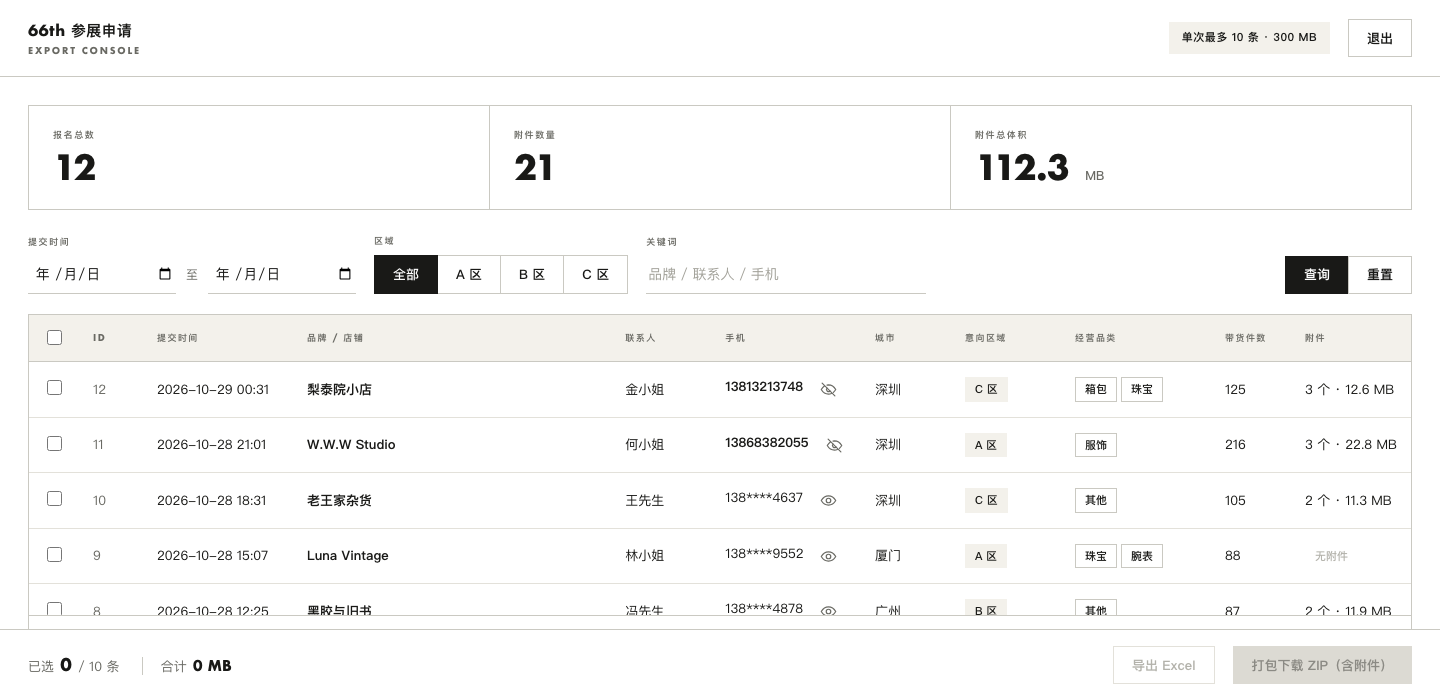
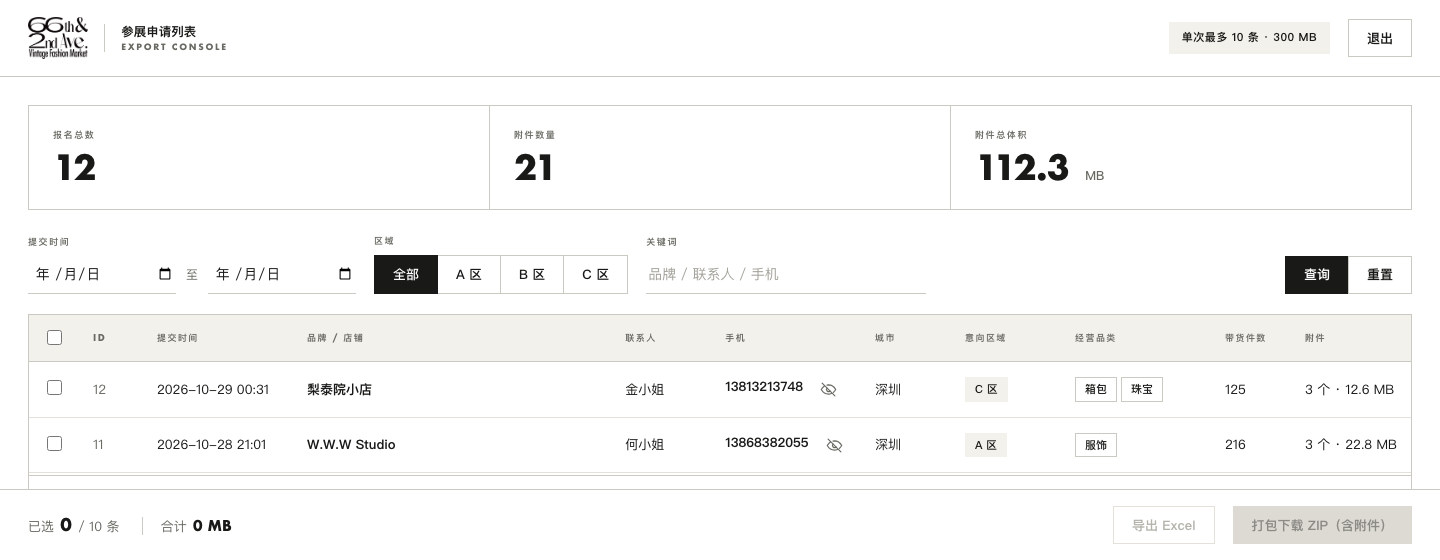
feat(security): 手机号改为传输层脱敏
- 列表接口 /api/v1/applications 只返回 138****8000，响应体里没有完整号码
- 新增 GET /api/v1/applications/{id}/phone 返回完整号，需 token
- 每次查看写审计日志：application_id / ip / ua，落到容器 stdout
- 前端点眼睛才调该接口，结果仅在本次会话内存缓存
- Excel / ZIP 导出仍是完整号码（业务外呼需要）
- 测试补 4 条：列表脱敏、单查、鉴权、导出完整

diff --git a/static/index.html b/static/index.html
@@ -343,6 +343,8 @@
   const state = {
     token: sessionStorage.getItem('export_token') || '',
     items: [], selected: new Map(),
+    phones: new Map(),      // id -> 完整号码（本次会话缓存）
+    shownPhones: new Set(), // 当前展开的行
     page: 1, pages: 1, total: 0,
     limit: 10, maxMb: 300,
     zone: '', keyword: '', from: '', to: '',
@@ -432,6 +434,8 @@
     state.token = '';
     sessionStorage.removeItem('export_token');
     state.selected.clear();
+    state.phones.clear();
+    state.shownPhones.clear();
     $('appView').classList.add('hidden');
     $('loginView').classList.remove('hidden');
   }
@@ -491,9 +495,9 @@
           <td class="mono">${fmtTime(it.created_at)}</td>
           <td><strong>${esc(it.brand_name)}</strong></td>
           <td>${esc(it.contact_name || '—')}</td>
-          <td class="mono phone-cell" data-phone="${esc(it.phone || '')}">
+          <td class="mono phone-cell" data-id="${it.id}">
             <span class="phone-text">${esc(maskPhone(it.phone))}</span>
-            ${it.phone ? `<button type="button" class="eye" title="显示号码" aria-label="显示号码">${EYE.off}</button>` : ''}
+            ${it.phone ? `<button type="button" class="eye" title="查看完整号码" aria-label="查看完整号码">${EYE.off}</button>` : ''}
           </td>
           <td>${esc(it.city || '—')}</td>
           <td>${zones || '—'}</td>
@@ -506,20 +510,57 @@
         cb.addEventListener('change', () => toggle(Number(cb.dataset.id), cb.checked));
       });
       tb.querySelectorAll('.eye').forEach((btn) => {
-        btn.addEventListener('click', () => {
+        btn.addEventListener('click', async () => {
           const cell = btn.closest('.phone-cell');
+          const id = Number(cell.dataset.id);
           const text = cell.querySelector('.phone-text');
-          const full = cell.dataset.phone;
-          const shown = btn.dataset.shown === '1';
-          text.textContent = shown ? maskPhone(full) : full;
-          btn.dataset.shown = shown ? '0' : '1';
-          btn.innerHTML = shown ? EYE.off : EYE.on;
-          btn.title = shown ? '显示号码' : '隐藏号码';
-          btn.setAttribute('aria-label', btn.title);
-          cell.classList.toggle('revealed', !shown);
+          const row = state.items.find((x) => x.id === id);
+          const masked = maskPhone(row && row.phone);
+
+          if (state.shownPhones.has(id)) {
+            state.shownPhones.delete(id);
+            text.textContent = masked;
+            btn.innerHTML = EYE.off;
+            btn.title = '查看完整号码';
+            cell.classList.remove('revealed');
+            return;
+          }
+
+          let full = state.phones.get(id);
+          if (!full) {
+            btn.disabled = true;
+            try {
+              const res = await api(`/api/v1/applications/${id}/phone`);
+              full = res.phone;
+              state.phones.set(id, full);
+            } catch (e) {
+              toast(e.message || '获取号码失败', 'err');
+              return;
+            } finally {
+              btn.disabled = false;
+            }
+          }
+          state.shownPhones.add(id);
+          text.textContent = full;
+          btn.innerHTML = EYE.on;
+          btn.title = '收起号码';
+          cell.classList.add('revealed');
         });
       });
     }
+    // 重渲染后恢复已展开的手机号
+    tb.querySelectorAll('.phone-cell').forEach((cell) => {
+      const id = Number(cell.dataset.id);
+      if (!state.shownPhones.has(id)) return;
+      const full = state.phones.get(id);
+      const btn = cell.querySelector('.eye');
+      if (!full || !btn) return;
+      cell.querySelector('.phone-text').textContent = full;
+      btn.innerHTML = EYE.on;
+      btn.title = '收起号码';
+      cell.classList.add('revealed');
+    });
+
     $('pageInfo').textContent = `第 ${state.page} / ${state.pages} 页 · 共 ${state.total} 条`;
     $('prevBtn').disabled = state.page <= 1;
     $('nextBtn').disabled = state.page >= state.pages;

diff --git a/app/main.py b/app/main.py
@@ -2,6 +2,7 @@
 
 from __future__ import annotations
 
+import logging
 from contextlib import asynccontextmanager
 from typing import Any
 from urllib.parse import quote
@@ -16,6 +17,14 @@ from .auth import client_ip, require_token, verify
 from .config import settings
 from .excel import build_workbook, excel_filename, zip_filename
 from .export import iter_zip
+
+logger = logging.getLogger("export.audit")
+if not logger.handlers:  # 保证审计日志一定落到 stdout（docker logs 可见）
+    _handler = logging.StreamHandler()
+    _handler.setFormatter(logging.Formatter("%(asctime)s AUDIT %(message)s"))
+    logger.addHandler(_handler)
+    logger.setLevel(logging.INFO)
+    logger.propagate = False
 
 DESCRIPTION = """
 66th & 2nd 市集 —— **参展申请列表**。
@@ -156,6 +165,26 @@ def _load(ids: list[int]) -> tuple[list[dict[str, Any]], dict[int, list[dict[str
             detail=f"所选附件合计 {mb:.0f}MB，超过 {settings.max_bundle_mb}MB 上限，请减少勾选",
         )
     return rows, db.get_files_by_application([int(r["id"]) for r in rows])
+
+
+@app.get(
+    "/api/v1/applications/{application_id}/phone",
+    tags=["数据"],
+    summary="查看完整手机号（会记审计日志）",
+    dependencies=[Depends(require_token)],
+)
+def reveal_phone(application_id: int, request: Request) -> dict:
+    """列表接口只返回 138****8000，需要完整号码时单独调这个接口。"""
+    phone = db.get_phone(application_id)
+    if phone is None:
+        raise HTTPException(status_code=404, detail="报名记录不存在")
+    logger.info(
+        "reveal_phone application_id=%s ip=%s ua=%s",
+        application_id,
+        client_ip(request),
+        (request.headers.get("user-agent") or "")[:80],
+    )
+    return {"ok": True, "application_id": application_id, "phone": phone}
 
 
 @app.get(

diff --git a/app/db.py b/app/db.py
@@ -85,6 +85,18 @@ def ping() -> None:
         _rows(conn, "SELECT 1 AS ok")
 
 
+def mask_phone(phone: str | None) -> str:
+    """138****8000 —— 列表接口只给脱敏号码，完整号码要走单独接口。"""
+    v = str(phone or "")
+    if not v:
+        return ""
+    if len(v) >= 11:
+        return v[:3] + "****" + v[-4:]
+    if len(v) >= 7:
+        return v[:2] + "****" + v[-2:]
+    return v[:1] + "***"
+
+
 def _decode(row: dict[str, Any]) -> dict[str, Any]:
     for col in ("zones", "categories"):
         if isinstance(row.get(col), str):
@@ -154,7 +166,10 @@ def list_applications(
             f"{_BASE_SQL} {clause} ORDER BY a.id DESC LIMIT ? OFFSET ?",
             [*args, page_size, (page - 1) * page_size],
         )
-    return [_decode(r) for r in rows], int(total)
+    items = [_decode(r) for r in rows]
+    for item in items:
+        item["phone"] = mask_phone(item.get("phone"))
+    return items, int(total)
 
 
 def get_applications(ids: list[int]) -> list[dict[str, Any]]:
@@ -165,6 +180,13 @@ def get_applications(ids: list[int]) -> list[dict[str, Any]]:
     with get_conn() as conn:
         rows = _rows(conn, f"{_BASE_SQL} WHERE a.id IN ({marks}) ORDER BY a.id", list(ids))
     return [_decode(r) for r in rows]
+
+
+def get_phone(application_id: int) -> str | None:
+    """仅用于「点开查看」时取完整手机号。"""
+    with get_conn() as conn:
+        rows = _rows(conn, "SELECT phone FROM application WHERE id = ?", [application_id])
+    return rows[0]["phone"] if rows else None
 
 
 def get_files_by_application(ids: list[int]) -> dict[int, list[dict[str, Any]]]:

diff --git a/tests/test_export.py b/tests/test_export.py
@@ -169,3 +169,38 @@ def test_token_via_query_for_download(client):
     res = client.get("/api/v1/applications.xlsx?ids=1&token=test-token")
     assert res.status_code == 200
     assert client.get("/api/v1/applications.xlsx?ids=1&token=bad").status_code == 401
+
+
+def test_phone_masked_in_list(client):
+    """列表接口不应返回完整号码。"""
+    data = client.get("/api/v1/applications", headers=AUTH).json()
+    phones = [it["phone"] for it in data["items"]]
+    assert phones, "应有数据"
+    for p in phones:
+        assert "****" in p, f"号码未脱敏：{p}"
+    assert all("13800138000" not in p for p in phones)
+
+
+def test_reveal_phone_endpoint(client):
+    res = client.get("/api/v1/applications/1/phone", headers=AUTH)
+    assert res.status_code == 200
+    body = res.json()
+    assert body["phone"] == "13800138000"
+    assert body["application_id"] == 1
+
+
+def test_reveal_phone_requires_token(client):
+    assert client.get("/api/v1/applications/1/phone").status_code == 401
+    assert client.get("/api/v1/applications/999/phone", headers=AUTH).status_code == 404
+
+
+def test_export_still_has_full_phone(client):
+    """导出 Excel 是给业务用的，需要完整号码。"""
+    from io import BytesIO
+
+    from openpyxl import load_workbook
+
+    res = client.get("/api/v1/applications.xlsx?ids=1", headers=AUTH)
+    wb = load_workbook(BytesIO(res.content))
+    ws = wb["报名清单"]
+    assert ws.cell(row=2, column=5).value == "13800138000"

diff --git a/README.md b/README.md
@@ -77,7 +77,7 @@ docker compose up -d --build      # 或 docker run，见 docs/DEPLOY.md
 |---|---|
 | 顶部统计 | 报名总数 / 附件数量 / 附件总体积 |
 | 筛选 | 提交时间范围、区域（A/B/C）、关键词（品牌/联系人/手机） |
-| 表格 | ID、时间、品牌、联系人、**手机（默认脱敏，点「显示」才展开）**、城市、意向区域、经营品类、带货件数、**附件数与大小** |
+| 表格 | ID、时间、品牌、联系人、**手机（接口返回即脱敏，点眼睛才调接口取完整号）**、城市、意向区域、经营品类、带货件数、**附件数与大小** |
 | 勾选 | 单条勾选 / 全选本页；**达上限后其余复选框自动置灰** |
 | 底部操作条 | `已选 3 / 10 条 · 合计 5.3 MB` + 「导出 Excel」「打包下载 ZIP（含附件）」 |
 | 安全阀 | 附件合计超过 `MAX_EXPORT_MB` 时，打包按钮自动禁用 |
@@ -140,7 +140,8 @@ docker compose up -d --build      # 或 docker run，见 docs/DEPLOY.md
 | `GET` | `/healthz` | 健康检查（含 DB ping） |
 | `POST` | `/api/v1/auth` | 校验 token，返回限制配置 |
 | `GET` | `/api/v1/summary` | 总览统计 |
-| `GET` | `/api/v1/applications` | 列表，支持 `keyword` / `zone` / `date_from` / `date_to` / `with_files` / `page` |
+| `GET` | `/api/v1/applications` | 列表，支持 `keyword` / `zone` / `date_from` / `date_to` / `with_files` / `page`；**手机号已脱敏** |
+| `GET` | `/api/v1/applications/{id}/phone` | 取完整手机号（**会写审计日志**：id / IP / UA） |
 | `GET` | `/api/v1/applications.xlsx?ids=1,2` | 导出 Excel（三个 sheet） |
 | `GET` | `/api/v1/bundle.zip?ids=1,2` | 打包下载（Excel + 附件原件） |
 
